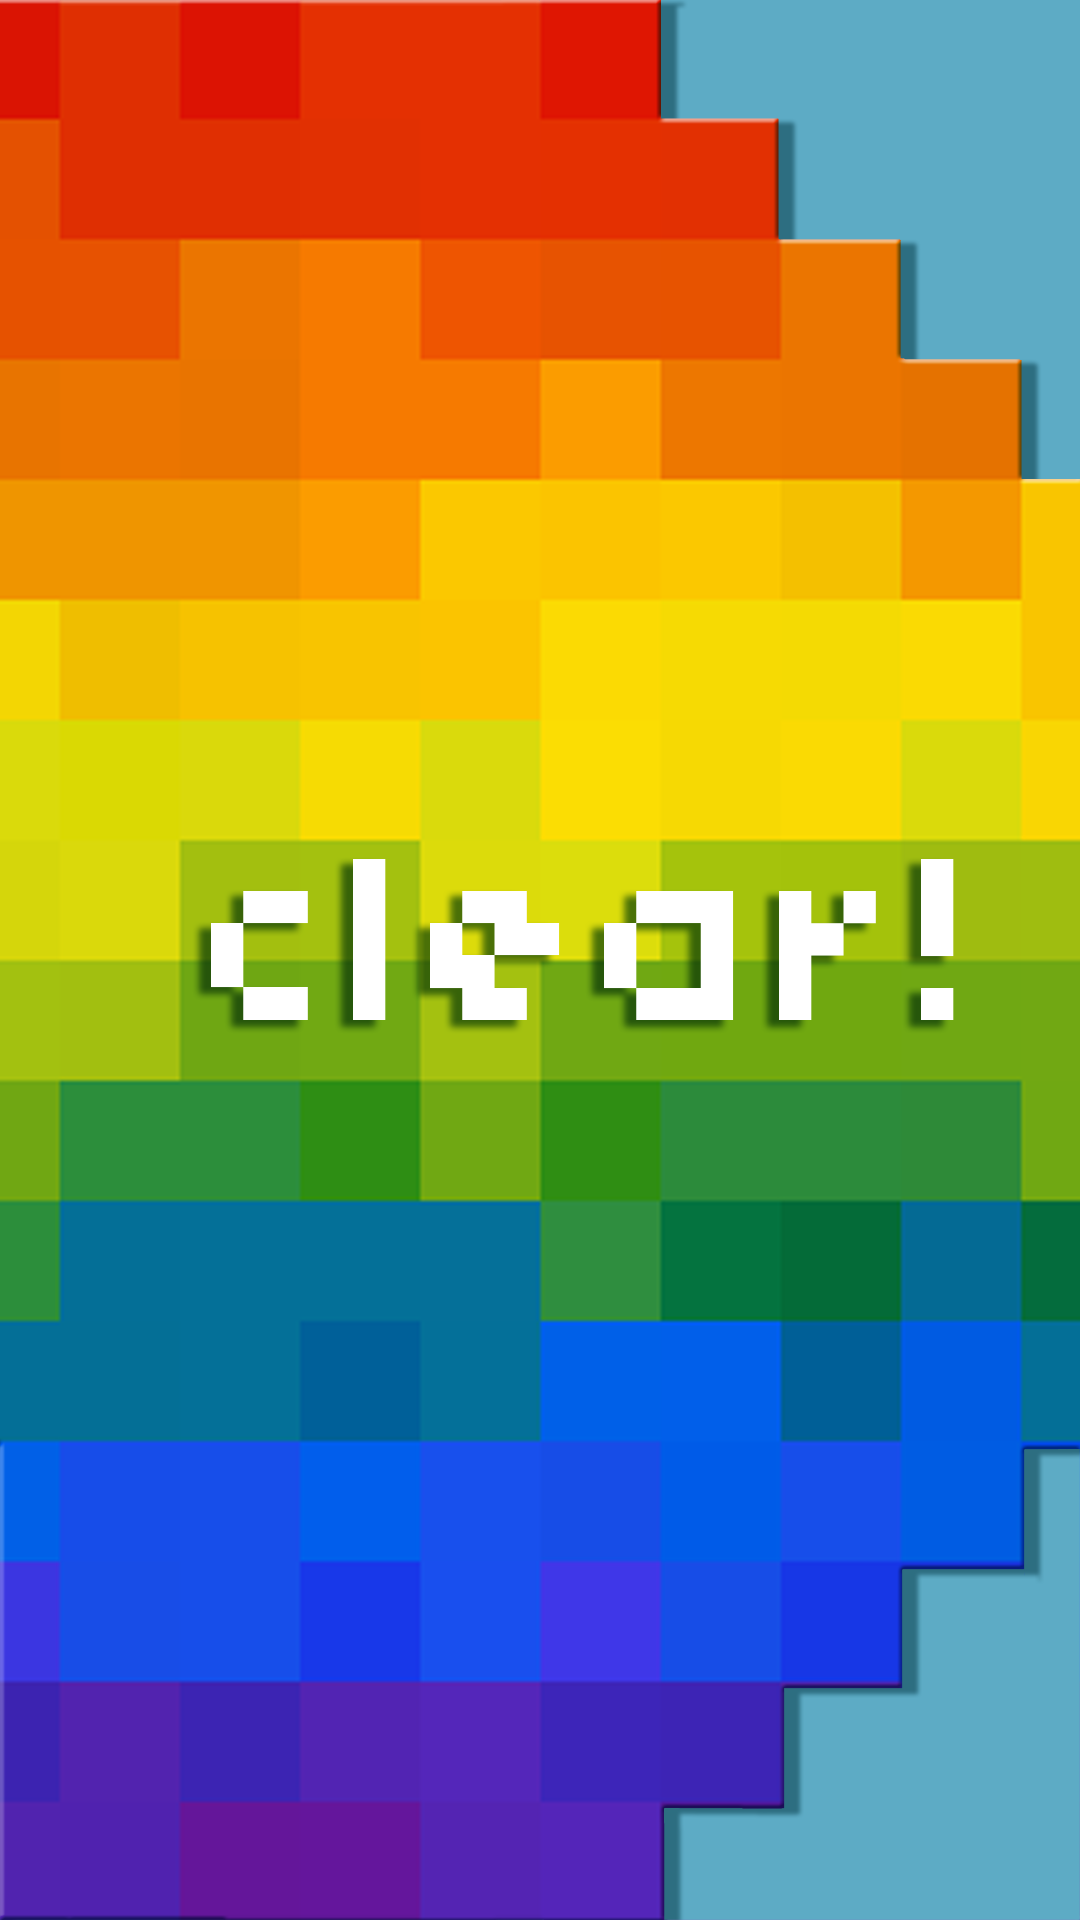
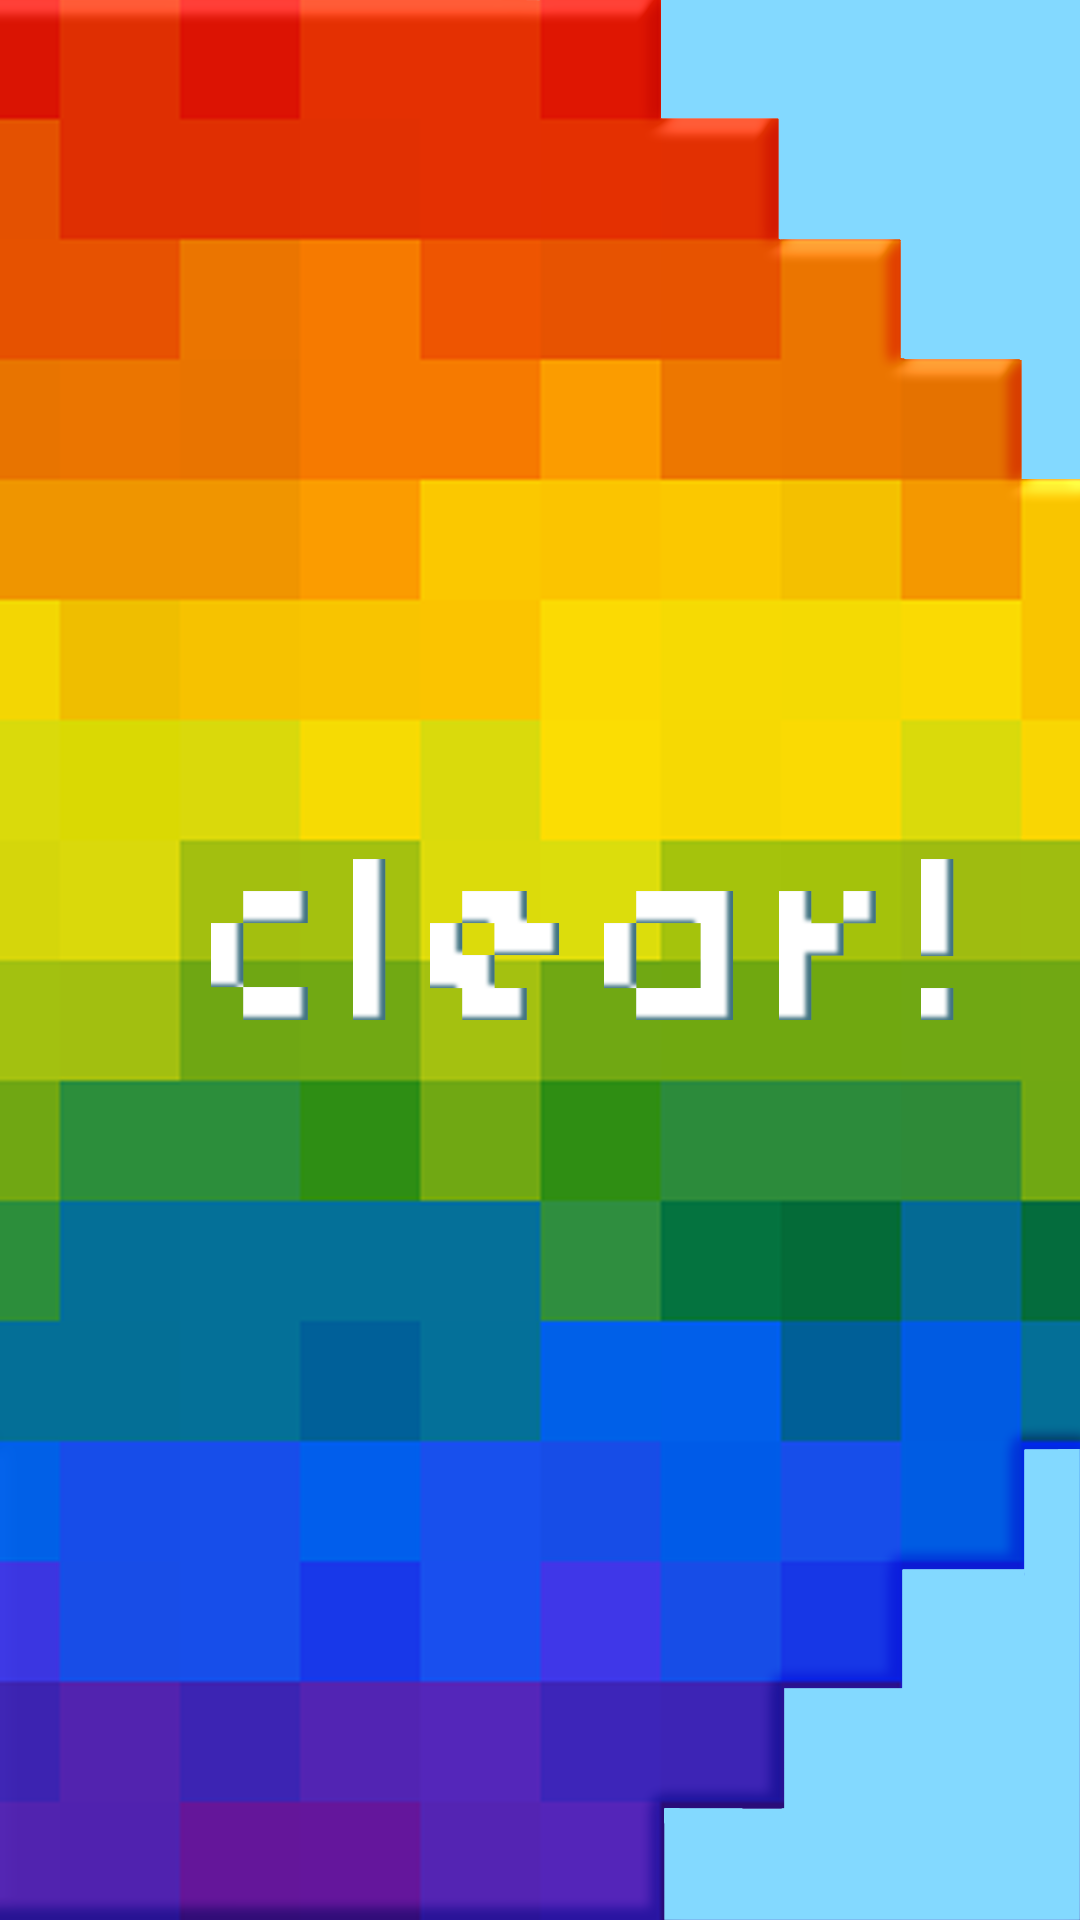
ready for release, almost

diff --git a/DropCube/Assets/Scripts/Prefabs.cs b/DropCube/Assets/Scripts/Prefabs.cs
@@ -14,6 +14,7 @@ public static class Prefabs
     public static GameObject exclam;
 
     public static Sprite[] playScreens = new Sprite[3];
+    public static Sprite levelSelectScreen;
     public static Sprite failScreen;
     public static Sprite clearScreen;
 
@@ -40,6 +41,7 @@ public static class Prefabs
         failScreen = Resources.Load<Sprite>("Images/backgrounds/fail-screen");
 
         clearScreen = Resources.Load<Sprite>("Images/backgrounds/clear-screen");
+        levelSelectScreen = Resources.Load<Sprite>("Images/backgrounds/levelselect-screen");
     }
 
     public static GameObject GetCubePrefabWithType(CubeType type)

diff --git a/DropCube/Assets/Scripts/GameManager.cs b/DropCube/Assets/Scripts/GameManager.cs
@@ -129,7 +129,7 @@ public class GameManager : MonoBehaviour
     public void OpenMenu()
     {
         menuManager.SetVisible(true);
-        backGround.sprite = Prefabs.playScreens[0];
+        backGround.sprite = Prefabs.levelSelectScreen;
         gameState = GameState.Menu;
     }
 
@@ -350,10 +350,8 @@ public class GameManager : MonoBehaviour
     {
         scene.Clear();
         swipeData.Reset();
-        gameState = GameState.Menu;
-        backGround.sprite = Prefabs.playScreens[0];
+        OpenMenu();
         StaticCoroutine.StopAllCoroutines();
-        menuManager.SetVisible(true);
     }
 
 }

diff --git a/DropCube/Assets/Scripts/Cubes/Wall.cs b/DropCube/Assets/Scripts/Cubes/Wall.cs
@@ -17,7 +17,10 @@ public class Wall : Cube
 
     public override Color GetCubeColor()
     {
-        return new Color(29.0f / 255.0f, 89.0f / 255.0f, 106.0f / 255.0f);
+        //return new Color(29.0f / 255.0f, 89.0f / 255.0f, 106.0f / 255.0f);
+        //return new Color(0.035f, 0.216f, 0.267f);
+        //return new Color(0.135f, 0.316f, 0.367f);
+        return new Color(0.185f, 0.366f, 0.407f);
     }
 
     public override CubeType GetCubeType()

diff --git a/DropCube/Assets/Scripts/Cubes/Cube.cs b/DropCube/Assets/Scripts/Cubes/Cube.cs
@@ -46,7 +46,9 @@ public class Cube : MonoBehaviour
 
     public virtual Color GetCubeColor()
     {
-        return new Color(157.0f / 255.0f, 211.0f / 255.0f, 234.0f / 255.0f);
+        //return new Color(157.0f / 255.0f, 211.0f / 255.0f, 234.0f / 255.0f);
+        //return new Color(0.514f, 0.851f, 1);
+        return new Color(0.5f, 0.831f, 1);
     }
 
     public virtual bool IsStatic()
